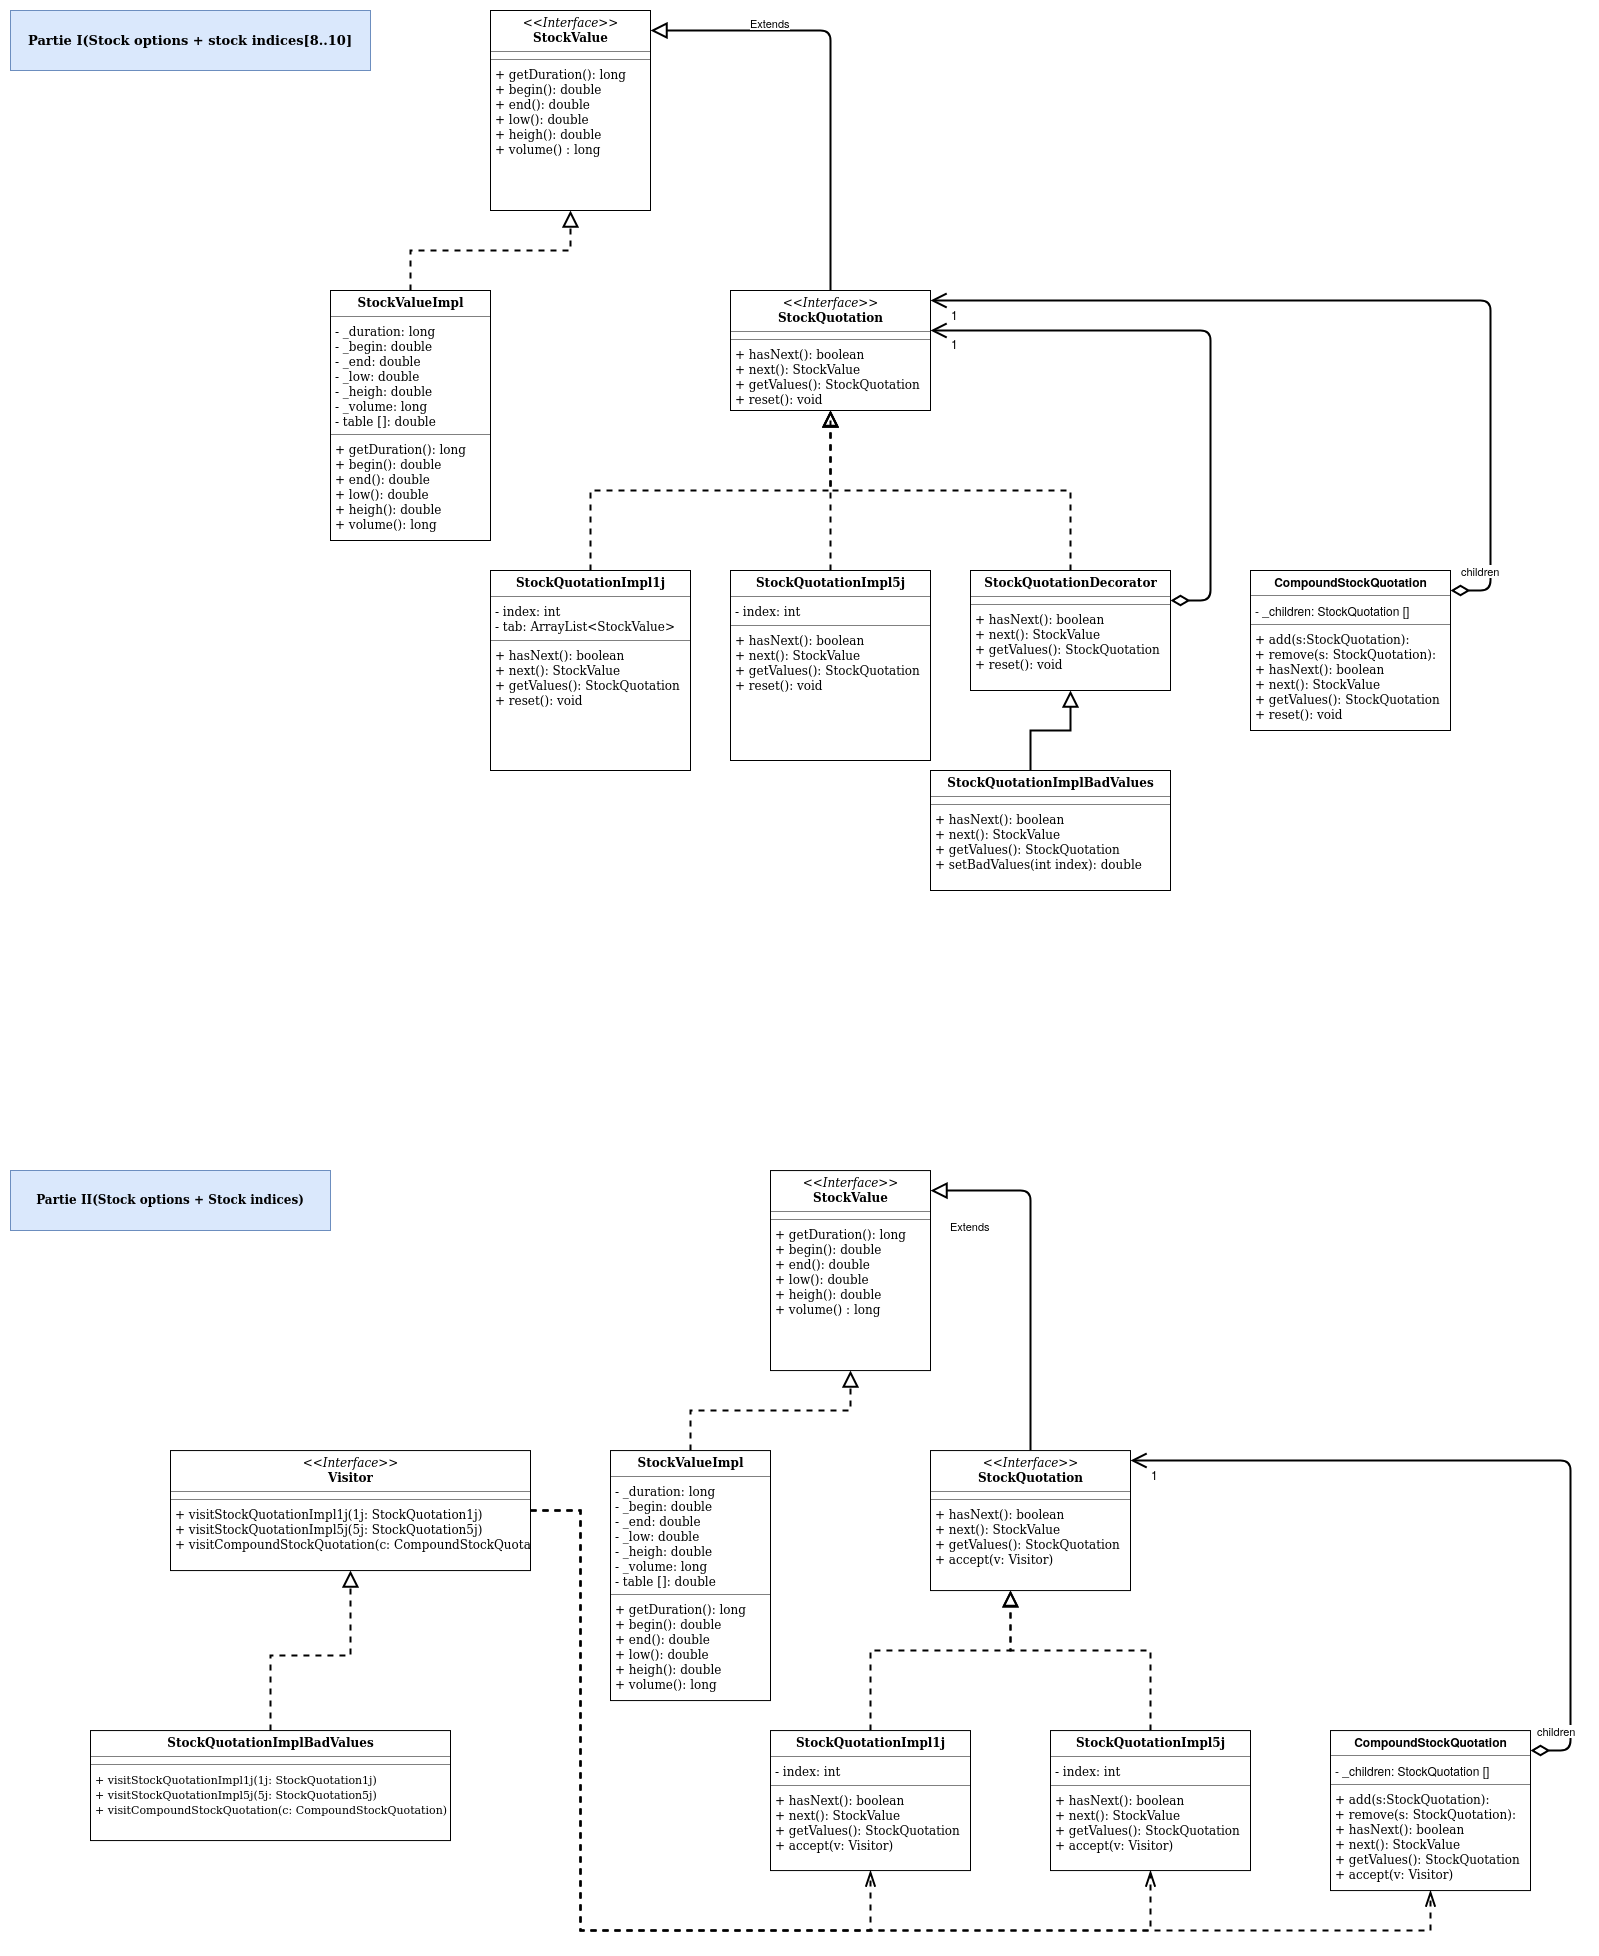
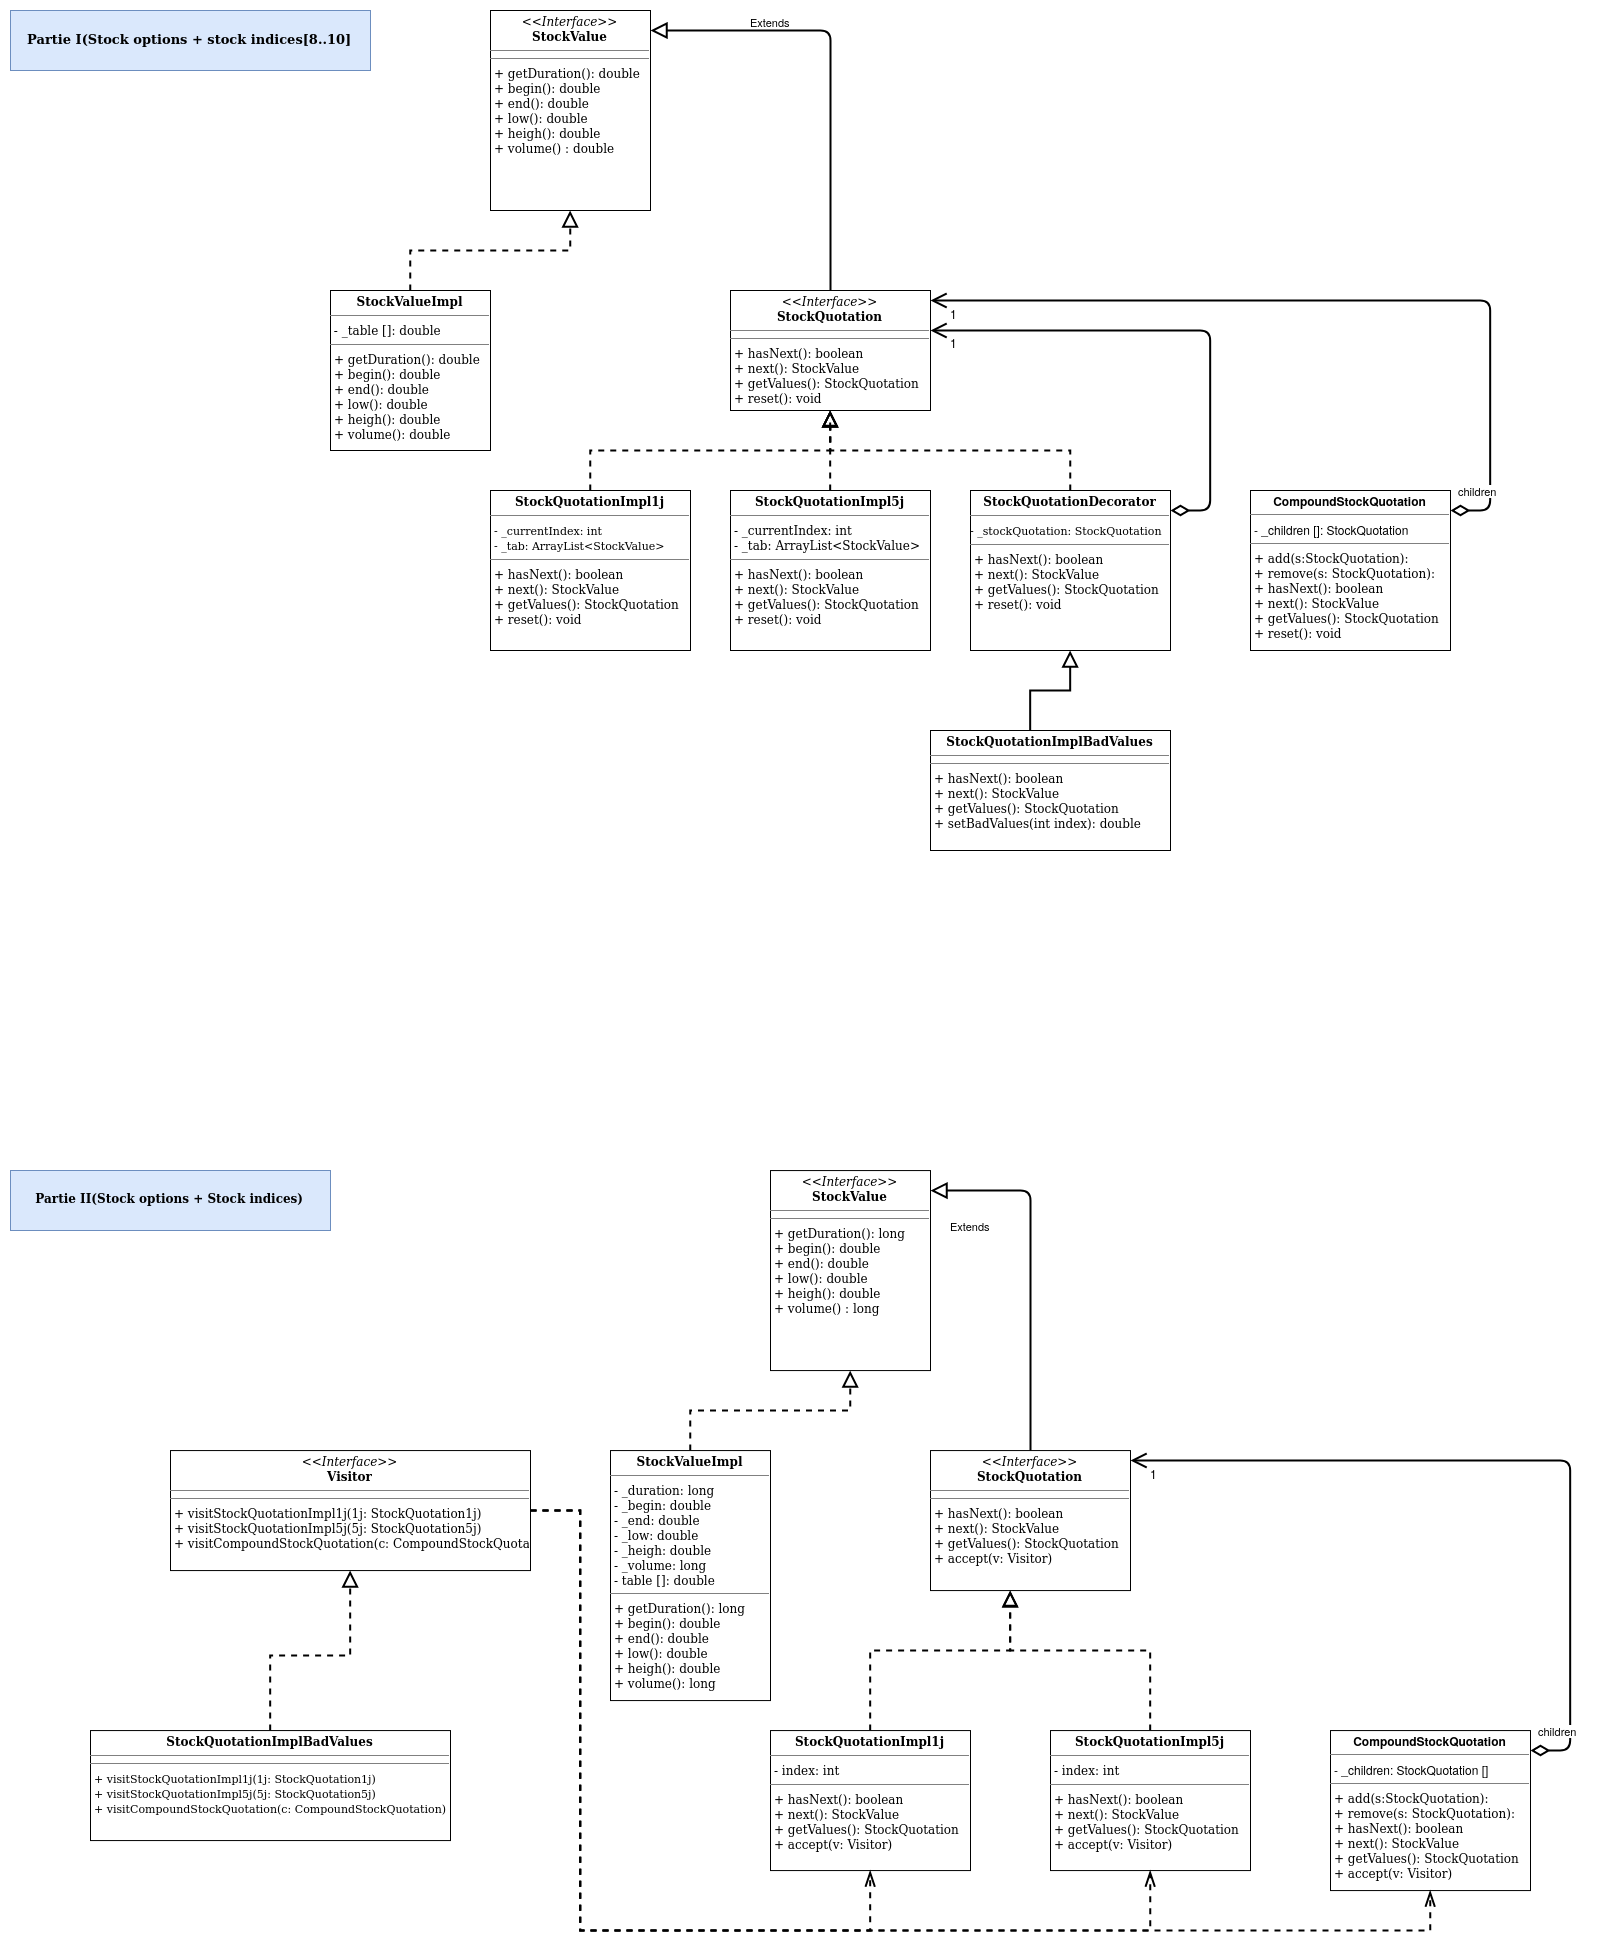
Mise à jour du digramme ainsi que le fichier README

diff --git a/src/main/java/dm/al/m1/s2/stock/StockQuotationImpl1j.java b/src/main/java/dm/al/m1/s2/stock/StockQuotationImpl1j.java
@@ -8,39 +8,33 @@ import java.util.ArrayList;
 
 public class StockQuotationImpl1j implements StockQuotation {
 	
-	private int currentIt = 0;
+	private int currentIndex = 0;
 	private ArrayList<StockValue> tab = new ArrayList<StockValue>();
 	
 
 	public StockQuotationImpl1j(String file) {
 		
 		try {
-			File f = new File(file);
-			FileReader fr = new FileReader(f);
+			FileReader fr = new FileReader(file);
 			BufferedReader br = new BufferedReader(fr);
 
 			br.readLine();
 			double duration = 0;
 	        for (String line = br.readLine(); line != null; line = br.readLine()) {
-	            String[] oneData = new String[6]; 
-				oneData = line.split(";");
+	            String[] oneData = line.split(";");
 	            tab.add(new StockValueImpl( duration, 
 											Double.parseDouble(oneData[1].replace("\"", "").replace(",", ".")), 
 											Double.parseDouble(oneData[2].replace("\"", "").replace(",", ".")),
-	            							Double.parseDouble(oneData[3].replace("\"", "").replace(",", ".")), 
+											Double.parseDouble(oneData[3].replace("\"", "").replace(",", ".")), 
 											Double.parseDouble(oneData[4].replace("\"", "").replace(",", ".")), 
 											Double.parseDouble(oneData[5].replace("\"", "")) )
-										);
-										duration += 1;
-					
+										  );
+				duration += 1;		
 	        }
 		} catch (IOException e) {
 			// TODO Auto-generated catch block
 			e.printStackTrace();
-		}
-		
-		
-		
+		}	
 	}
 
 	@Override
@@ -50,43 +44,38 @@ public class StockQuotationImpl1j implements StockQuotation {
 
 	@Override
 	public double begin() {
-		// TODO Auto-generated method stub
 		return 0;
 	}
 
 	@Override
 	public double end() {
-		// TODO Auto-generated method stub
 		return 0;
 	}
 
 	@Override
 	public double low() {
-		// TODO Auto-generated method stub
 		return 0;
 	}
 
 	@Override
 	public double high() {
-		// TODO Auto-generated method stub
 		return 0;
 	}
 
 	@Override
 	public double volume() {
-		// TODO Auto-generated method stub
 		return 0;
 	}
 
 	@Override
 	public boolean hasNext() {
-		return currentIt < tab.size();
+		return currentIndex < tab.size();
 	}
 
 	@Override
 	public StockValue next() {
 		if(this.hasNext()) {
-			return tab.get(currentIt++);
+			return tab.get(currentIndex++);
 		}
 		
 		return null;
@@ -99,12 +88,8 @@ public class StockQuotationImpl1j implements StockQuotation {
 
 	@Override
 	public void reset() {
-		currentIt = 0;
+		currentIndex = 0;
 		
 	}
-	
-	
-
-	
 
 }

diff --git a/src/main/java/dm/al/m1/s2/stock/StockValueImpl.java b/src/main/java/dm/al/m1/s2/stock/StockValueImpl.java
@@ -2,15 +2,7 @@ package dm.al.m1.s2.stock;
 
 public class StockValueImpl implements StockValue {
 	
-//	private long _duration;
-//	private double _begin;
-//	private double _end;
-//	private double _low;
-//	private double _heigh;
-//	private long _volume;
 	private double[] _table = new double [6];
-	
-	
 
 	public StockValueImpl(double duration, double begin, double end, double low, double heigh, double volume) {
 		_table[0] = duration;
@@ -51,8 +43,8 @@ public class StockValueImpl implements StockValue {
 		return _table[5];
 	}
 
-	public double[] get_table() {
-		return _table;
-	}
+	// public double[] get_table() {
+	// 	return _table;
+	// }
 
 }

diff --git a/src/main/java/dm/al/m1/s2/stock/StockQuotationImpl5j.java b/src/main/java/dm/al/m1/s2/stock/StockQuotationImpl5j.java
@@ -7,7 +7,6 @@ public class StockQuotationImpl5j extends StockQuotationDecorator {
 	private int currentIt = 0;
 	private ArrayList<StockValue> tab = new ArrayList<StockValue>();
 	
-	
 
 	public StockQuotationImpl5j(StockQuotation stockQuotation) {
 		super(stockQuotation);	
@@ -24,8 +23,5 @@ public class StockQuotationImpl5j extends StockQuotationDecorator {
 		
 		return null;
 	}
-
-
-
 
 }

diff --git a/src/main/java/dm/al/m1/s2/stock/StockQuotationDecorator.java b/src/main/java/dm/al/m1/s2/stock/StockQuotationDecorator.java
@@ -1,6 +1,7 @@
 package dm.al.m1.s2.stock;
 
 public abstract class StockQuotationDecorator implements StockQuotation {
+	
 	private StockQuotation _stockQuotation;
 
 

diff --git a/README.md b/README.md
@@ -1,2 +1,16 @@
-# ArchiLog
-First commit
+# Devoir de maison en architecture logicielle 
+L'objectif est de construire un ensemble de classes permettant de modéliser les cours des actions
+boursières, divers indicateurs statistiques mais aussi les différents secteurs et indices boursiers.
+
+## Installation
+
+## Démarrage
+### Il faut se mettre sur le repertoire "ArchiLog" avec
+        ```bash
+        cd ArchiLog
+        ```
+    
+### Ensuite lancer cette commande pour compiler et exécuter le programme
+        ```maven
+        mvn clean package compile exec:java -Dexec.mainClass=src.main.java.dm.al.m1.s2.App
+        ```
